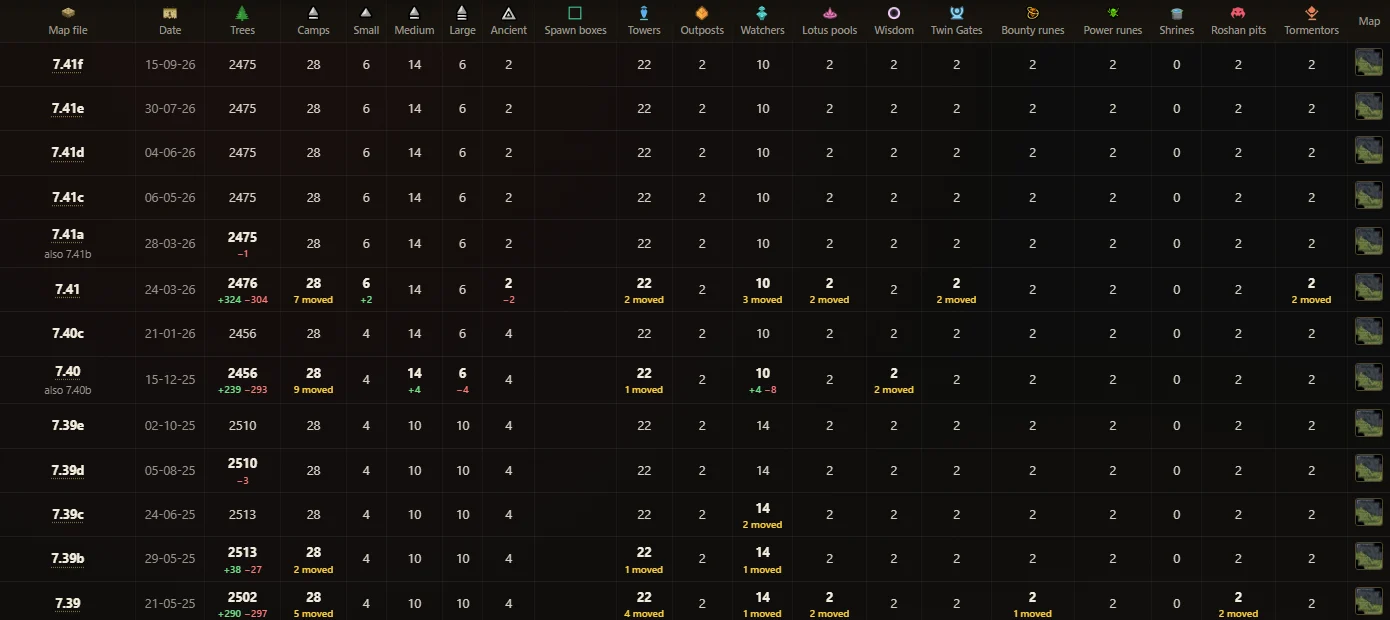
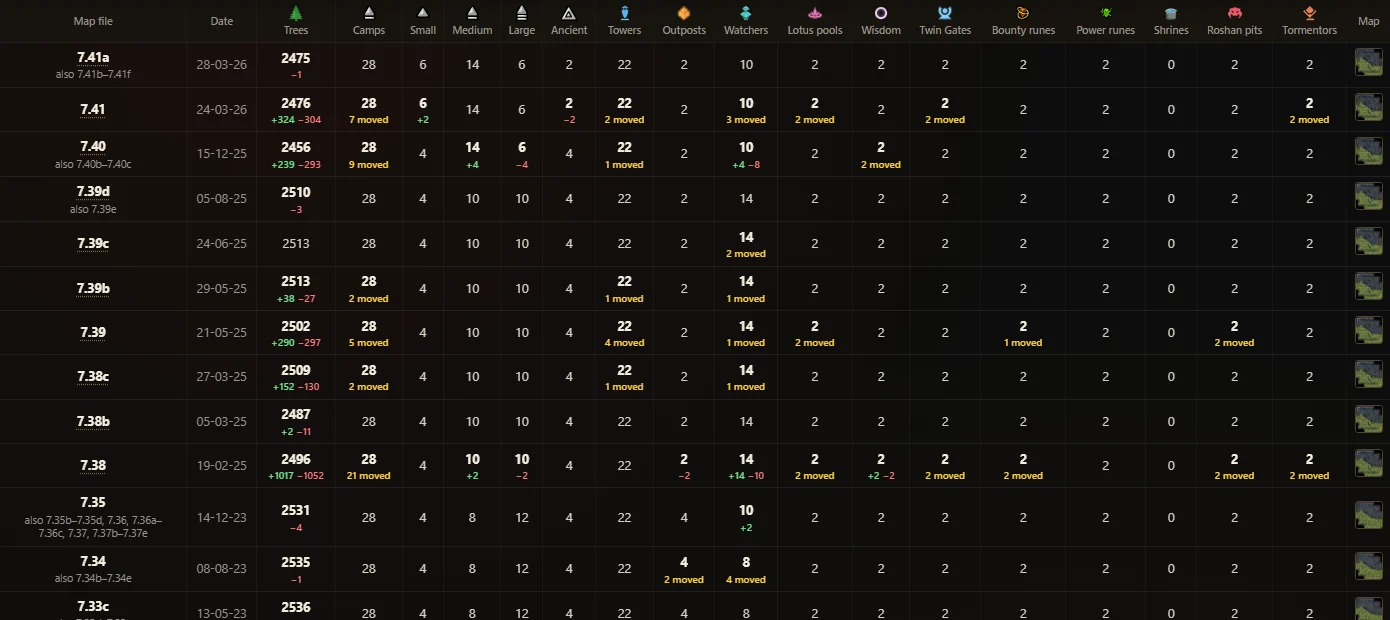
fix(terrain): Terrain Stats — glued unchanged files, centred tiles, plainer chart
- Map files with nothing different from the one before share its row
  (65 files -> 33 rows, "7.41a also 7.41b-7.41f"), the also-text centred.
- No icons on Map file / Date; no Spawn boxes column (nearly always empty).
- Tiles centred, clear of the edge on hover; headings 10 px in.
- Chart labels show the version only; a point's hover shows its tree count.

diff --git a/styles.css b/styles.css
@@ -9957,7 +9957,9 @@ button.tf-kind[aria-pressed="false"] { opacity: 0.45; }
    under .terrain-stats-page, so the Terrain pages never see them. ---- */
 /* starts at the content's left edge like every Materials page (the owner: "not from the middle of the screen") */
 .terrain-stats-page .ts-wrap { padding: 4px 0 40px; }
-.terrain-stats-page .ts-tiles { max-width: 820px; }
+/* the tiles in the middle of the page, clear of the edge they used to pop past on hover; the headings a step in */
+.terrain-stats-page .ts-tiles { max-width: 820px; margin: 10px auto 4px; }
+.terrain-stats-page .tf-head { padding-left: 10px; }
 .terrain-stats-page a.ts-tile-link { color: inherit; text-decoration: none; }
 .terrain-stats-page a.ts-tile-link .tf-name { text-decoration: underline dotted rgba(227, 196, 106, 0.6);
   text-underline-offset: 3px; }
@@ -9973,8 +9975,6 @@ button.tf-kind[aria-pressed="false"] { opacity: 0.45; }
 .ts-chart .ts-dot-big { fill: #fff3d6; stroke: #e3c46a; stroke-width: 1.5; }
 .ts-chart .ts-mark rect { fill: rgba(20, 17, 12, 0.92); stroke: rgba(227, 196, 106, 0.45); stroke-width: 1; }
 .ts-chart .ts-mark text { font-size: 11.5px; font-weight: 700; text-anchor: middle; fill: #f0e3c2; }
-.ts-chart .ts-mark-add { fill: #6fe089; }
-.ts-chart .ts-mark-rem { fill: #ff7a7a; }
 /* a point's value on hover — the owner asked for it */
 .ts-chart .ts-hit { fill: transparent; cursor: default; }
 .ts-chart .ts-tip { opacity: 0; pointer-events: none; transition: opacity 0.12s ease; }
@@ -9995,7 +9995,7 @@ button.tf-kind[aria-pressed="false"] { opacity: 0.45; }
 .ts-table td.ts-file { white-space: nowrap; font-weight: 700; color: var(--text-bright); }
 .ts-table td.ts-file a { color: inherit; text-decoration: underline dotted rgba(227, 196, 106, 0.5); text-underline-offset: 3px; }
 .ts-table .ts-also { display: block; font-weight: 400; font-size: 10.5px; color: var(--text-dim); white-space: normal;
-  max-width: 110px; margin: 1px auto 0; }
+  max-width: 150px; margin: 1px auto 0; text-align: center; line-height: 1.3; }
 .ts-table td.ts-date { white-space: nowrap; color: var(--text-dim); }
 .ts-table td.ts-changed { color: var(--text-bright); font-weight: 700; }
 .ts-table .ts-delta { display: block; font-size: 10px; font-weight: 600; line-height: 1.25; }

diff --git a/builders/terrain_stats.py b/builders/terrain_stats.py
@@ -26,7 +26,8 @@ DATA = _os.path.join(_HERE, "data", "map", "map_history.json")
 OG_REPO = "https://github.com/sikleq/Oldgrowth"
 OG_PAGES = "https://sikleq.github.io/Oldgrowth/versions/"
 ASSET_VERSION = _site.compute_asset_version()
-# (key, label, icon) — every kind of object; "boxes" (camp spawn boxes) has no count, only its changes
+# (key, label, icon) — every kind of object (camp spawn boxes left out: the column was nearly always empty, the owner
+# 2026-10-04)
 COLUMNS = (
     ("trees", "Trees", "ui/gothic/tc_trees"),
     ("camps", "Camps", "camps/creepcamp_mid"),
@@ -34,7 +35,6 @@ COLUMNS = (
     ("tier1", "Medium", "camps/creepcamp_mid"),
     ("tier2", "Large", "camps/creepcamp_big"),
     ("tier3", "Ancient", "camps/creepcamp_ancient"),
-    ("boxes", "Spawn boxes", "ui/gothic/icon_spawnbox"),
     ("towers", "Towers", "ui/gothic/tc_towers"),
     ("outposts", "Outposts", "ui/gothic/tc_outposts"),
     ("watchers", "Watchers", "ui/gothic/tc_watchers"),
@@ -84,6 +84,18 @@ def load():
         elif r.get("same_as") in by:
             by[r["same_as"]]["also"].append(r["patch"])
     return files
+
+
+def group(files):
+    """Map files with nothing different from the one before — the same counts, nothing moved (7.41c … 7.41f) — share
+    the earlier file's row (the owner 2026-10-04: "versions that don't differ at all — glue them, no value changes")."""
+    rows = []
+    for f in files:
+        if rows and not f["moves"] and f["n"] == rows[-1]["n"]:
+            rows[-1] = {**rows[-1], "also": rows[-1]["also"] + [f["patch"]] + f["also"]}
+        else:
+            rows.append(f)
+    return rows
 
 
 def _ranges(patches):
@@ -175,19 +187,16 @@ def chart_svg(files, w=1300, h=260):
     labels, points = [], []
     for i, (f, dt) in enumerate(zip(files, dates)):
         x, y = X(dt), Y(ys[i])
-        t = f["moves"].get("trees", {})
         big = i in top and churn(f)
-        if big:                                                         # a plate, so the line under it never cuts it
-            lw = 112
+        if big:              # the version only, on a plate the line never cuts (the owner: no "+1838 −1578" there)
+            lw = 14 + len(f["patch"]) * 7.5
             ly = y - 30 if y - 30 > 6 else y + 12
             lx = min(max(x - lw / 2, pad_l + 2), right - lw - 2)
             labels.append(f'<g class="ts-mark"><rect x="{lx}" y="{ly}" width="{lw}" height="20" rx="3"/>'
-                          f'<text x="{lx + lw / 2}" y="{ly + 14}"><tspan class="ts-mark-v">{_esc(f["patch"])}</tspan>'
-                          f' <tspan class="ts-mark-add">+{t.get("add", 0)}</tspan>'
-                          f' <tspan class="ts-mark-rem">−{t.get("rem", 0)}</tspan></text></g>')
-        # hover: the point grows and its value shows (CSS :hover on the group; a wide invisible target)
-        tip = f"{f['patch']} · {ys[i]} trees"
-        tw = 9 + len(tip) * 6.4
+                          f'<text x="{lx + lw / 2}" y="{ly + 14}">{_esc(f["patch"])}</text></g>')
+        # hover: the point grows and shows its tree count only (CSS :hover on the group; a wide invisible target)
+        tip = str(ys[i])
+        tw = 14 + len(tip) * 7
         tx = min(max(x - tw / 2, pad_l + 2), right - tw - 2)
         ty = y + 14 if y - 30 < pad_t else y - 30
         points.append(f'<g class="ts-pt"><circle class="ts-hit" cx="{x}" cy="{y}" r="9"/>'
@@ -229,12 +238,11 @@ def _cell(f, prev, key):
 
 
 def table_html(files, pages):
-    head = (f'<th class="ts-file">{_icon("ui/gothic/icon_terrain")}<span>Map file</span></th>'
-            f'<th>{_icon("ui/gothic/icon_calendar")}<span>Date</span></th>'
+    head = ('<th class="ts-file"><span>Map file</span></th><th><span>Date</span></th>'
             + "".join(f'<th>{_icon(icon)}<span>{_esc(label)}</span></th>' for _k, label, icon in COLUMNS)
             + '<th><span>Map</span></th>')
     rows, prev = [], None
-    for f in files:
+    for f in group(files):
         ver = f["patch"]
         link = (f'<a href="{_terrain._terrain_filename(ver)}">{_esc(ver)}</a>' if ver in pages else _esc(ver))
         also = f'<span class="ts-also">also {_esc(_ranges(f["also"]))}</span>' if f["also"] else ""

diff --git a/tests/test_terrain_stats.py b/tests/test_terrain_stats.py
@@ -29,15 +29,19 @@ def test_every_map_file_is_one_row_with_the_patches_that_shipped_it():
 def test_cells_show_added_removed_and_moved():
     files = ts.load()
     table = ts.table_html(files, {"7.41", "7.40"})
-    assert table.count("<tr>") == 66 and table.index(">7.41f<") < table.index(">7.08<")    # newest first
+    rows = ts.group(files)                                             # identical files glued (7.41a … 7.41f)
+    assert table.count("<tr>") == len(rows) + 1 and len(rows) < 65
+    assert table.index(">7.41a<") < table.index(">7.08<")              # newest first
+    glued = next(r for r in rows if r["patch"] == "7.41a")
+    assert glued["also"] == ["7.41b", "7.41c", "7.41d", "7.41e", "7.41f"] and ">also 7.41b–7.41f<" in table
+    assert "Spawn boxes" not in table and "icon_calendar" not in table and "icon_terrain" not in table
     assert '<a href="terrain_741.html">7.41</a>' in table and '<a href="terrain_739.html">' not in table
     row = table.split('<a href="terrain_741.html">7.41</a>', 1)[1].split("</tr>", 1)[0]
     assert '<span class="ts-up">+324</span> <span class="ts-down">−304</span>' in row         # trees
     assert '<span class="ts-moved">7 moved</span>' in row and '<span class="ts-moved">2 moved</span>' in row
     assert "What moved" not in table and "picture" not in table
     assert 'src="icons/maps/thumbs/' in table and 'class="ts-thumb"' in table
-    assert 'icons/ui/gothic/icon_calendar.png' in table and 'icons/ui/gothic/icon_terrain.png' in table
-    assert 'icons/ui/gothic/tc_shrines.png' in table and ">15-09-26<" in table
+    assert 'icons/ui/gothic/tc_shrines.png' in table and ">28-03-26<" in table
     for f in files:                                                    # every square and icon is there
         assert os.path.exists(os.path.join(_ROOT, "icons", "maps", "thumbs", f["sha8"] + ".webp")), f["patch"]
     for _k, _label, icon in ts.COLUMNS:
@@ -49,8 +53,8 @@ def test_tiles_chart_and_the_terrain_menu():
     tiles = ts.tiles_html(files, 118)
     assert '<a class="tf-tile ts-tile-link" href="https://github.com/sikleq/Oldgrowth">' in tiles
     chart = ts.chart_svg(files)
-    assert chart.count('class="ts-mark"') == 5 and '<tspan class="ts-mark-v">7.33</tspan>' in chart
-    assert chart.count('class="ts-pt"') == 65 and "7.38 · 2496 trees" in chart          # values on hover
+    assert chart.count('class="ts-mark"') == 5 and '">7.33</text></g>' in chart and "+1838" not in chart  # versions only
+    assert chart.count('class="ts-pt"') == 65 and '">2496</text>' in chart and " trees<" not in chart  # count on hover
     assert 'class="ts-grid ts-grid-major" x1=' in chart and 'class="ts-axis"' in chart
     groups = {g[0]: g for g in site.MATERIALS_GROUPS}
     assert [c[0] for c in groups["terrain_grp"][3]] == ["terrain", "terrain_stats"]

diff --git a/docs/terrain.md b/docs/terrain.md
@@ -376,15 +376,17 @@ Tools → Source Filmmaker, `tools/sfm.dll`) renders leamare's look:
 - **Terrain Stats (2026-10-04)** — the owner: "add the Oldgrowth table somewhere, carefully, not breaking the Terrain
   page visually or technically — a sub-tab of the Terrain button, Terrain Stats, with more info". Materials ▸ Terrain is
   now a group (`MATERIALS_GROUPS` "terrain_grp": Terrain, Terrain Stats). `builders/terrain_stats.py` →
-  dist/terrain_stats.html (build step "tstats"), left-aligned like every Materials page (no intro): tiles (patches,
-  "65 map files" linking to the Oldgrowth repo with a dotted label, trees and camps since 7.08); an inline-SVG step chart
-  of the trees on a faint grid (a line per 100 trees and per year, faint axes), each point's value on hover (CSS
-  `.ts-pt:hover .ts-tip`), the 5 files that moved the most trees on dark plates ("7.33 +1838 −1578", + green, − red);
-  and one row per map file, newest first, full width — the patches that shipped it ("also 7.22b–7.22f"), the date as
-  dd-mm-yy, 18 kinds of object (trees, camps and each tier, spawn boxes, towers, outposts, watchers, lotus pools,
+  dist/terrain_stats.html (build step "tstats"), left-aligned like every Materials page (no intro), the headings 10 px
+  in: tiles centred (patches, "65 map files" linking to the Oldgrowth repo with a dotted label, trees and camps since
+  7.08); an inline-SVG step chart of the trees on a faint grid (a line per 100 trees and per year, faint axes), each
+  point's tree count on hover (CSS `.ts-pt:hover .ts-tip`), the 5 files that moved the most trees labelled with their
+  version only, on dark plates; and the table, newest first, full width — map files with nothing different from the
+  one before glued into its row (`group`: 65 files → 33 rows, "7.41a also 7.41b–7.41f"), the date as dd-mm-yy, no icon
+  on Map file / Date, 17 kinds of object (trees, camps and each tier, towers, outposts, watchers, lotus pools,
   wisdom, Twin Gates, bounty / power runes, shrines — `tc_shrines`, a stone well drawn by gen_terrain_layer_icons.py —,
   Roshan pits, Tormentors), each cell its count plus what changed since the file before: added green, removed red,
-  moved / changed yellow (no "what moved" sentence column; the owner: "show moved like removed / added, in yellow"),
+  moved / changed yellow (no "what moved" sentence column; the owner: "show moved like removed / added, in yellow";
+  no Spawn boxes column — "nearly always empty"),
   and a 28-px square of the map (`icons/maps/thumbs/<sha8>.webp`, scripts/gen/map_thumbs.py) linking to its Oldgrowth
   picture. Data: `data/map/map_history.json` (counts + `moves` parsed from the "what moved" text) from Oldgrowth's
   versions.json (`scripts/gen/map_history_table.py`, rerun when Oldgrowth gains a patch) — the CI build can't reach the
